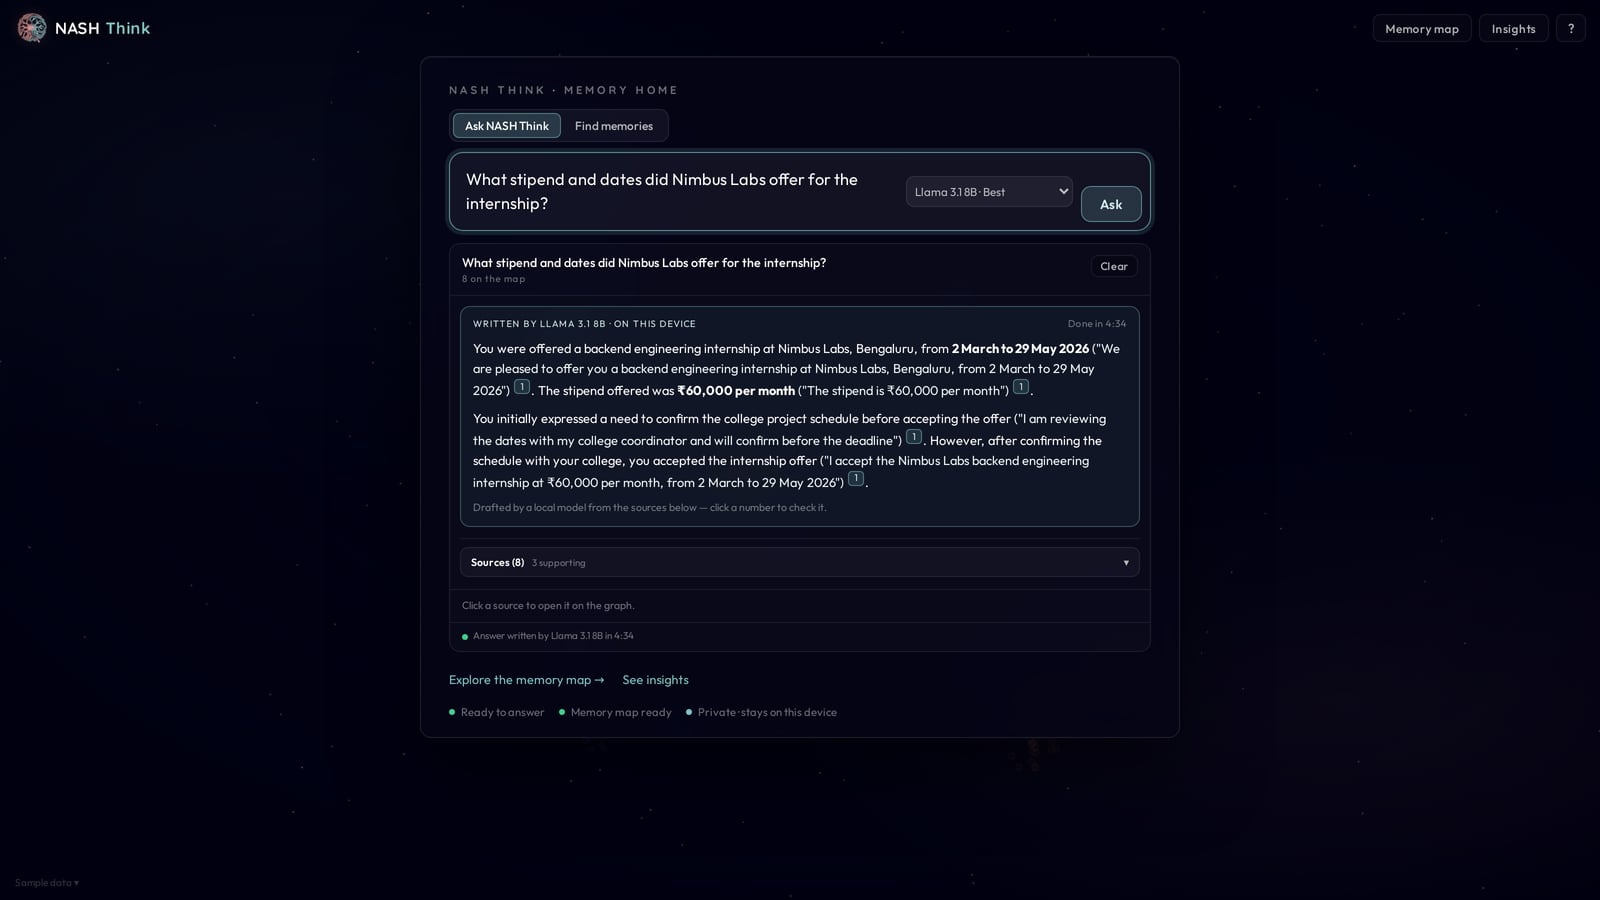
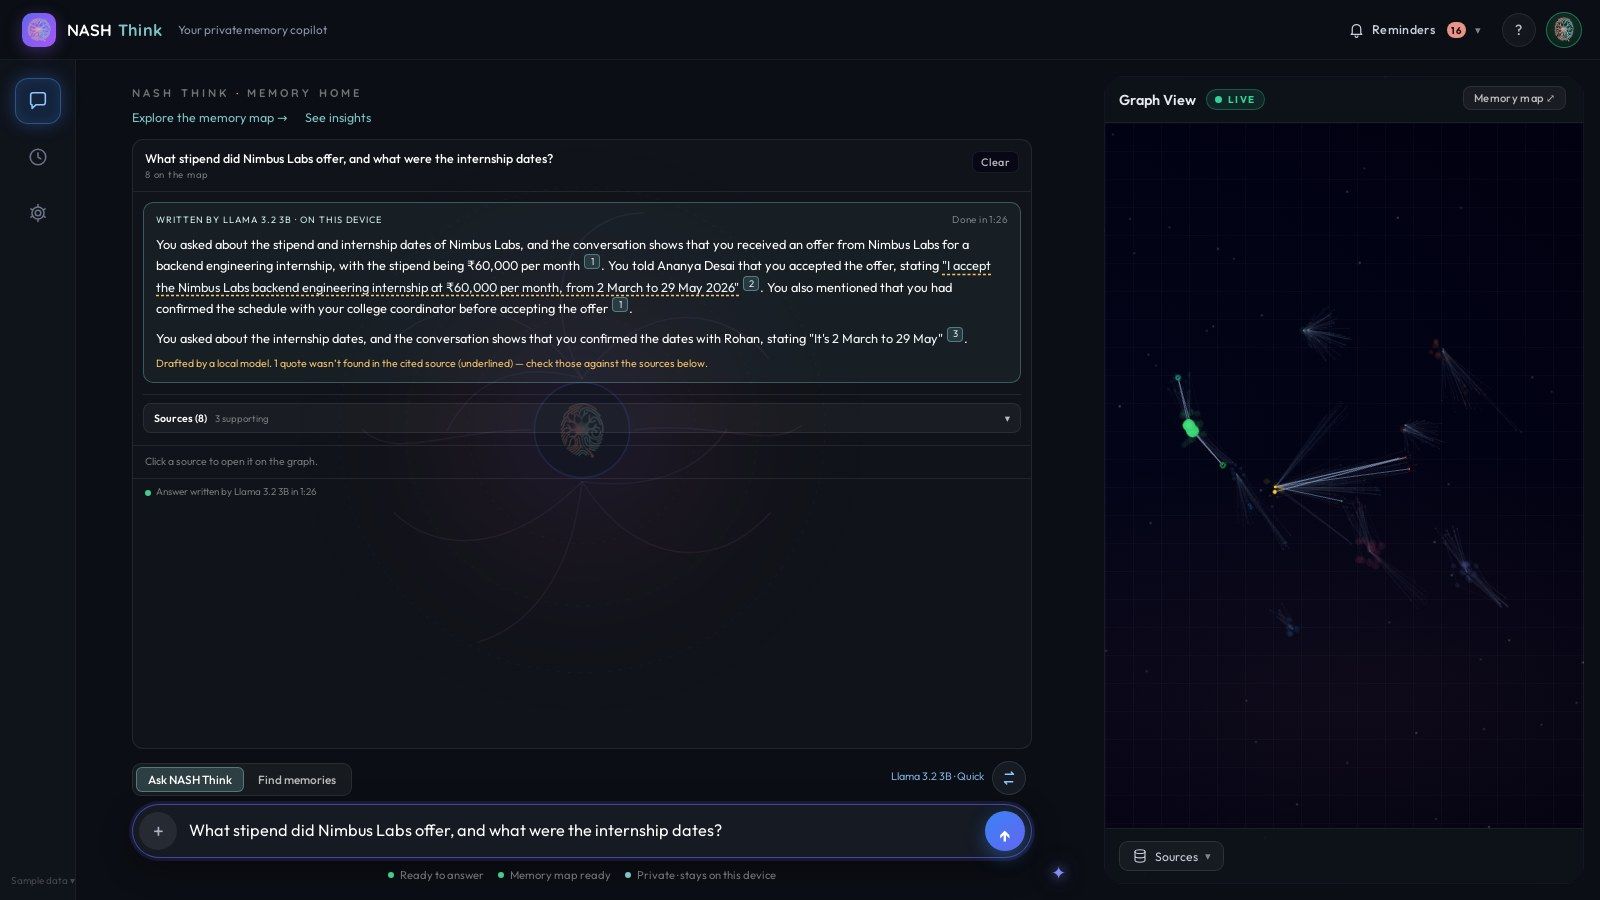
README: new screenshots of the current app (Memory Home, local answer, sources, map, person, reminders)
All taken on the fictional 50k sample; adds a Reminders screenshot.

diff --git a/README.md b/README.md
@@ -58,13 +58,14 @@ an assistant over their own knowledge without a cloud provider.
 
 ## Screenshots
 
-<p align="center"><img src="docs/screenshots/ask-answer.jpg" alt="An answer written by Llama 3.1 8B on this device, with numbered citations" width="900"><br>
-<sub>Ask: Llama 3.1 8B answers on this device, citing the exact messages</sub></p>
+<p align="center"><img src="docs/screenshots/ask-answer.jpg" alt="An answer written by Llama 3.2 3B on this device, with numbered citations and a flagged quote" width="900"><br>
+<sub>Ask: Llama 3.2 3B answers on this device and cites the exact messages; a quote it could not verify is underlined</sub></p>
 
 | | |
 |---|---|
-| <img src="docs/screenshots/home.jpg" alt="NASH Think home with the question box above the memory map"><br><sub>Home: one question box above your memory map</sub> | <img src="docs/screenshots/sources.jpg" alt="Source cards and timeline behind an answer"><br><sub>The sources behind every answer, with a timeline</sub> |
-| <img src="docs/screenshots/memory-map.jpg" alt="Memory map with the cited email and its people highlighted"><br><sub>Memory map: the cited conversation and its people light up</sub> | <img src="docs/screenshots/person-profile.jpg" alt="Your history with Rohan: cited brief, activity by month and notable conversations"><br><sub>Your history with a person</sub> |
+| <img src="docs/screenshots/home.jpg" alt="Memory Home: tools on the left, the question box in the middle, a live Graph View on the right"><br><sub>Memory Home: ask in the middle, your memory map live on the right</sub> | <img src="docs/screenshots/sources.jpg" alt="Evidence summary, key points, timeline and source cards behind an answer"><br><sub>The evidence behind every answer: confidence, key points, timeline, sources</sub> |
+| <img src="docs/screenshots/memory-map.jpg" alt="Memory map with the cited email and its people highlighted"><br><sub>Memory map: the cited conversation and its people light up</sub> | <img src="docs/screenshots/person-profile.jpg" alt="Your history with Rohan: brief, counts, activity by month, recurring words and notable conversations"><br><sub>Your history with a person</sub> |
+| <img src="docs/screenshots/reminders.jpg" alt="Reminders found in the chats, with calendar options: .ics download, browser alerts, Google Calendar"><br><sub>Reminders found in your chats, one click to Google Calendar or a calendar file</sub> | |
 
 <sub>All screenshots use the fictional sample archive; no real chats are shown.</sub>
 
